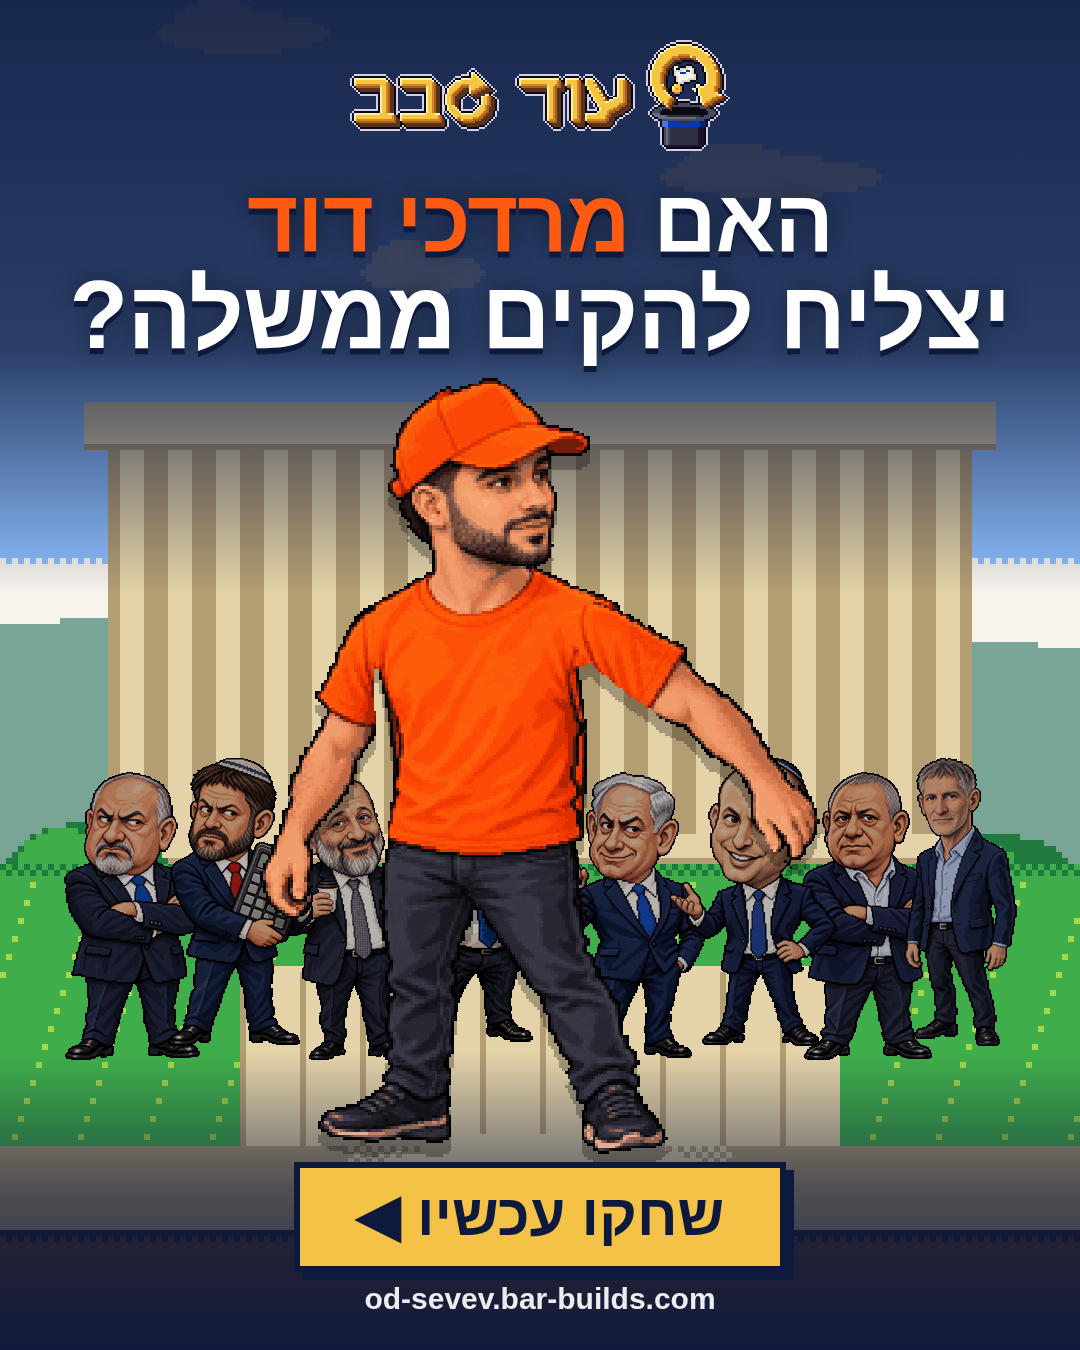
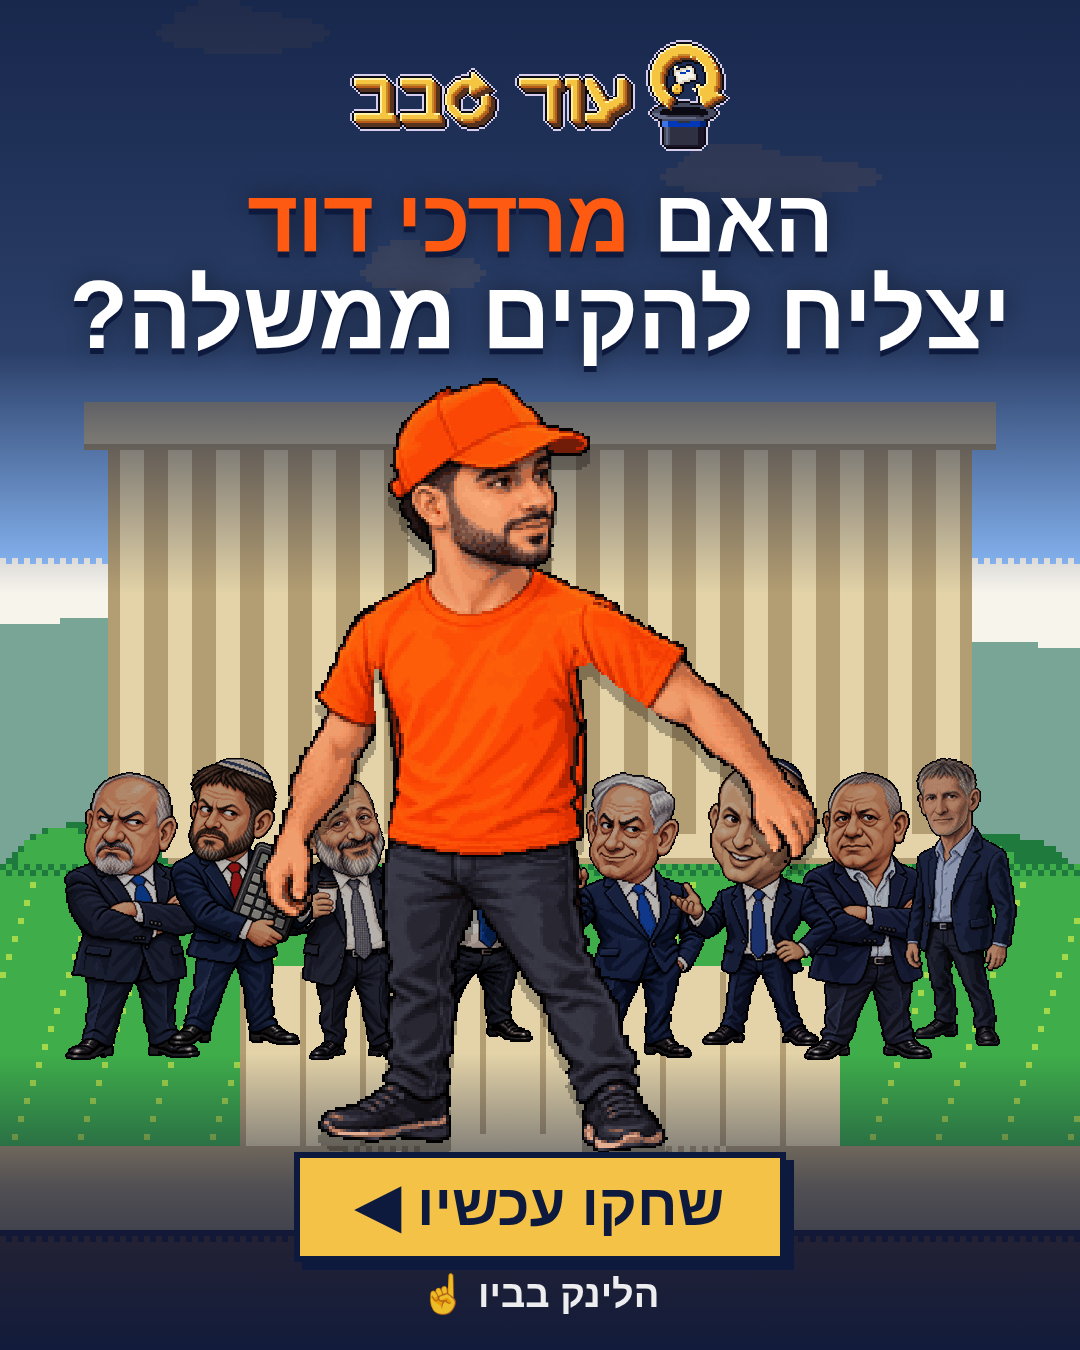
marketing(instagram): 'link in bio' instead of the printed URL
Claude-Session: https://claude.ai/code/session_01K1dHLvu6JgKnKFQAbFuTfc

Changed region(s): [[0.275, 0.84, 0.7333, 0.9956]]

diff --git a/marketing/instagram/mordechai-government.html b/marketing/instagram/mordechai-government.html
@@ -72,7 +72,7 @@
     padding: 18px 56px 22px; border: 6px solid var(--navy);
     box-shadow: 8px 8px 0 var(--navy);
   }
-  .url { color: var(--white); font-weight: 700; font-size: 30px; opacity: .92; }
+  .url { color: var(--white); font-weight: 800; font-size: 38px; opacity: .92; }
   .en { direction: ltr; unicode-bidi: isolate; }
 </style>
 </head>
@@ -103,7 +103,7 @@
 
   <div class="cta">
     <div class="pill">שחקו עכשיו ◀</div>
-    <div class="url en">od-sevev.bar-builds.com</div>
+    <div class="url">הלינק בביו ☝</div>
   </div>
 </div>
 </body>

diff --git a/marketing/instagram/README.md b/marketing/instagram/README.md
@@ -10,6 +10,6 @@ Single marketing images for the game, built from the game's own art (the `flyer`
   `mordechai-david_block.png` frame 0), the Knesset stage and the logo.
 - Render: `node render.mjs mordechai-government.html 1080x1350 1` (Playwright; needs network for Heebo
   and prints "Heebo ok").
-- The URL printed is the live host, `od-sevev.bar-builds.com`.
+- The image says the link is in the bio; the bio link is https://od-sevev.bar-builds.com.
 - His name sits outside the game here: `design/redlines.json` scopes it to his in-game event, and the legal
   read is on Bar's pre-launch list. Bar asked for this post (2026-10-04).
